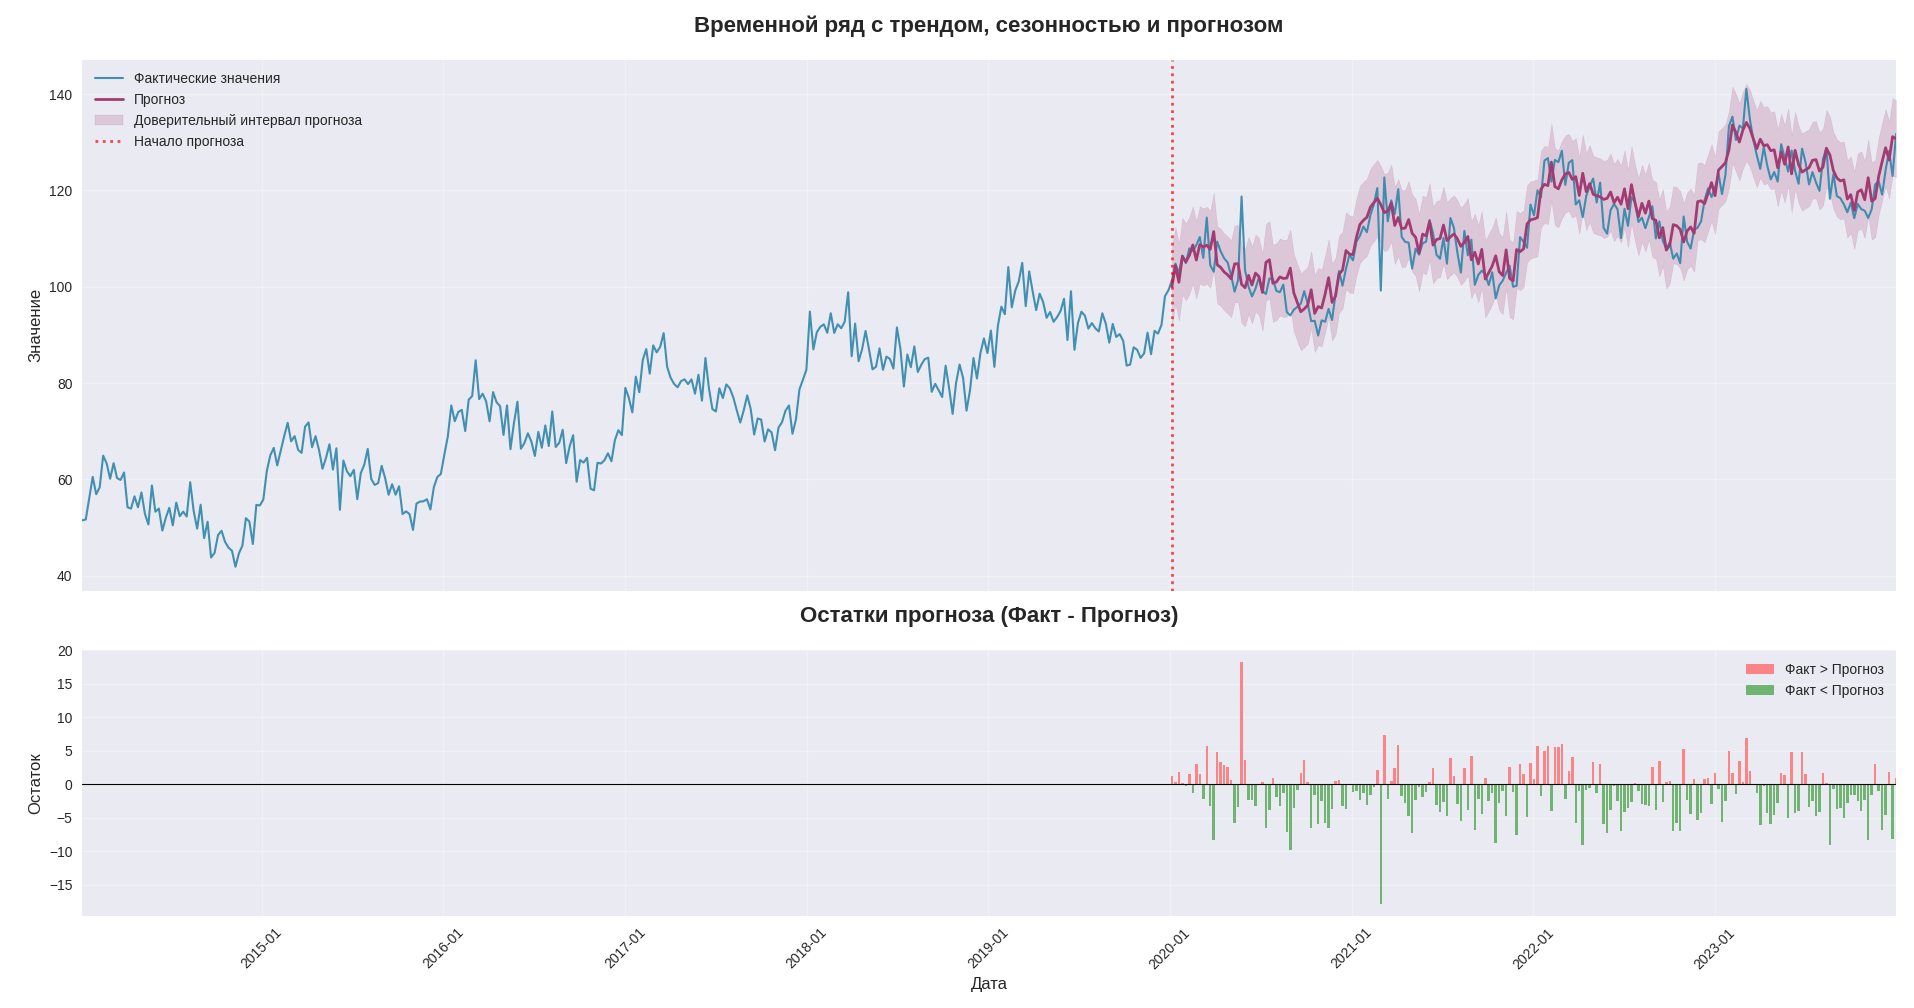
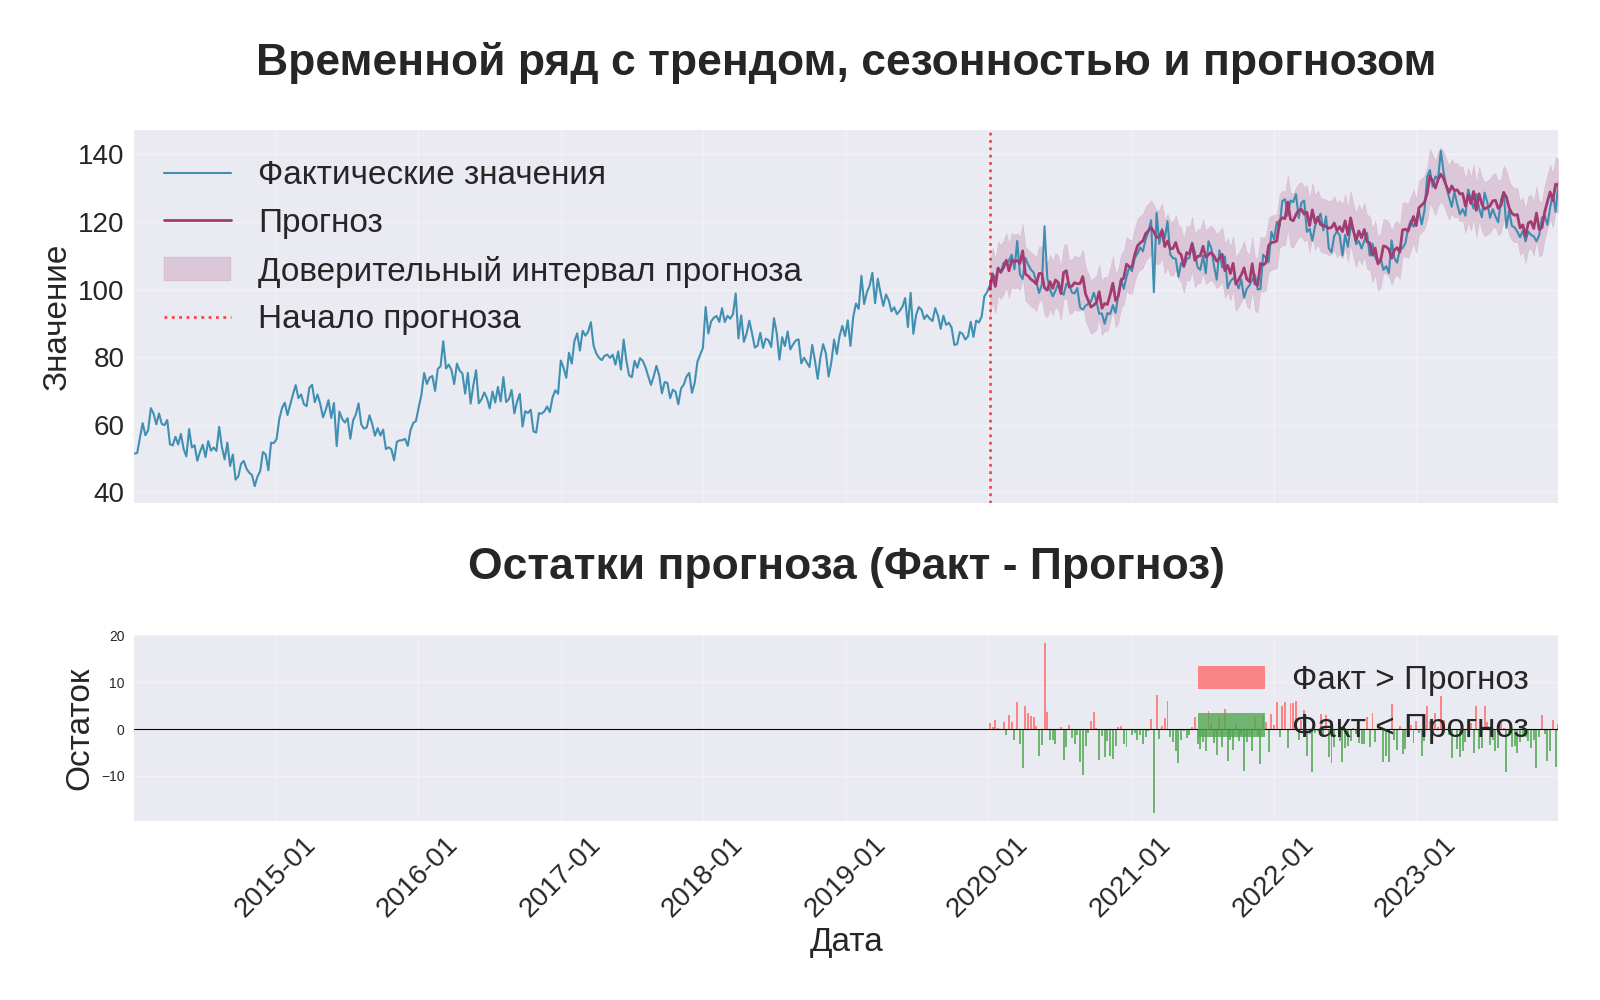
change a to y_hat in metrics section

diff --git a/src/0. Getting started/05_metrics.tex b/src/0. Getting started/05_metrics.tex
@@ -1,6 +1,8 @@
 \section{Метрики качества точечного прогноза}
 \label{sec:metrics}
 
+\subsection{Немного определений}
+
 В контексте всего вышесказанного определимся, как же количественно
 посчитать, насколько наш прогноз совпадает с фактом. Мы уже выяснили,
 что важны не только конкретные значения метрик, но и их стабильность
@@ -89,11 +91,14 @@ TODO: написать про свойства метрик качества. т
 симметричности, устойчивости к выбросам и тд и в конце привести
 сводную таблицу. Выделить классы эквивалентности
 
+\subsection{Самые распространенные метрики качества прогноза}
+
 Основная задача, с которой мы будем сталкиваться в данным курсе -
 задача регрессии. Способов посчитать близость двух чисел
 (прогноза и истинного ответа) достаточно много, и поэтому при
 обсуждении регрессии у нас возникнет большое количество функционалов ошибки.
-Напомним также, что в случае регрессии функционал и метрика качества
+Напомним также, что в случае регрессии (в частности, в прогнозе
+временных рядов) функционал и метрика качества
 зачастую оказывается одним и тем же: мы можем рассматривать
 среднеквадратичную ошибку как в качестве цели для оптимизации, так
 и в качестве оценки итогового качества модели. При этом не все
@@ -101,21 +106,21 @@ TODO: написать про свойства метрик качества. т
 
 Чтобы обучать регрессионные модели временного ряда, нужно
 определиться, как именно измеряется качество предсказаний. Будем
-обозначать через \( y \) значение целевой переменной, через \( a \) --
+обозначать через \( y \) значение целевой переменной, через \( \hat{y_t} \) --
 прогноз модели.
-Рассмотрим несколько способов оценить отклонение \( L(y, a) \)
+Рассмотрим несколько способов оценить отклонение \( L(y, \hat{y_t}) \)
 прогноза от истинного ответа.
 
 \subsection*{MSE и \( R^2 \)}
 Основной способ измерить отклонение — посчитать квадрат разности:
 
-\[ L(y, a) = (a - y)^2 \]
+\[ L = (\hat{y_t} - y)^2 \]
 
 Благодаря своей дифференцируемости эта функция наиболее часто
 используется в задачах регрессии. Основанный на ней функционал
 называется среднеквадратичным отклонением (mean squared error, MSE):
 
-\[ \text{MSE}(a, X) = \frac{1}{T} \sum_{t=1}^{T} (a_t - y_t)^2 \]
+\[ \text{MSE} = \frac{1}{T} \sum_{t=1}^{T} (\hat{y_t} - y_t)^2 \]
 
 Отметим, что величина среднеквадратичного отклонения плохо
 интерпретируется, поскольку не сохраняет единицы измерения — так,
@@ -124,7 +129,7 @@ TODO: написать про свойства метрик качества. т
 среднеквадратичной ошибки (root mean squared error, RMSE):
 
 \[
-  RMSE(a, X) = \sqrt{\frac{1}{T} \sum_{i=1}^{T} (a_t - y_t)^2}.
+  RMSE = \sqrt{\frac{1}{T} \sum_{i=1}^{T} (\hat{y_t} - y_t)^2}.
 \]
 
 Среднеквадратичная ошибка подходит для сравнения двух моделей или для
@@ -137,7 +142,7 @@ TODO: написать про свойства метрик качества. т
 детерминации (или коэффициент $R^2$):
 
 \[
-  R^2(a, X) = 1 - \frac{\sum_{t=1}^{T} (a(x_t) -
+  R^2 = 1 - \frac{\sum_{t=1}^{T} (\hat{y_t} -
   y_t)^2}{\sum_{i=t}^{T} (y_t - \bar{y})^2},
 \]
 
@@ -153,14 +158,14 @@ TODO: написать про свойства метрик качества. т
 Заменим квадрат отклонения на модуль:
 
 \[
-  L(y, a) = |a - y|
+  L = |\hat{y_t} - y|
 \]
 
 Соответствующий функционал называется средним абсолютным отклонением
 (mean absolute error, MAE):
 
 \[
-  MAE(a, X) = \frac{1}{T} \sum_{t=1}^{T} |a_t - y_t|.
+  MAE = \frac{1}{T} \sum_{t=1}^{T} |\hat{y_t} - y_t|.
 \]
 
 Модуль отклонения не является дифференцируемым, но при этом менее
@@ -186,7 +191,7 @@ TODO: написать про свойства метрик качества. т
 пример относительной функции потерь:
 
 \[
-  L(y, a) = \frac{|y - a|}{y}
+  L = \frac{|y_t - \hat{y_t}|}{y_t}
 \]
 
 Соответствующий функционал называется средней абсолютной процентной
@@ -199,8 +204,17 @@ TODO: написать про свойства метрик качества. т
 модификации (symmetric mean absolute percentage error, SMAPE):
 
 \[
-  L(y, a) = \frac{|y - a|}{(|y| + |a|)/2}
+  L = \frac{|y - \hat{y_t}|}{(|y| + |\hat{y_t}|)/2}
 \]
+
+TODO: квантильная функция
+
+\subsection{Для тех, кому все еще мало}
+
+Как уже было сказано ранее, метрик качеств для временных рядов можно
+придумать бесконечное количество. Ниже мы приведем менее
+распространенные метрики качества прогноза, а также дадим краткое
+объяснение, зачем они нужны.
 
 TODO: написать также про следующие метрики (взято у гевиссты, их
   дохуя, поэтому надо расписать, для чего вообще они нужны + возможно
@@ -213,8 +227,6 @@ TODO: написать также про следующие метрики (вз
   \item Cредняя абсолютная ошибка (mean absolute error, MAE)
   \item Медианная абсолютная ошибка (median absolute error, MdAE)
   \item Сравнение RMSE, MAE, MdAE
-  \item Корень из среднеквадратичной логарифмической ошибки
-    (root mean squared logarithmic error, RMSLE)
   \item Корень из среднеквадратичной логарифмической ошибки
     (root mean squared logarithmic error, RMSLE)
   \item Метрики качества на основе процентных ошибок

diff --git a/code_examples/forecast_errors.py b/code_examples/forecast_errors.py
@@ -31,10 +31,8 @@ forecast = (
     trend + seasonality * 0.85 + np.random.normal(1, 2, n) + 50
 )  # Прогноз с ошибкой
 
-
 # Разделение на обучающую и тестовую выборки
 split_point = int(n * 0.6)  # 60% для обучения, 40% для теста
-
 
 # Добавление выбросов
 actual[split_point + 20] += 20
@@ -88,26 +86,30 @@ ax1.axvline(
 
 ax1.set_title(
     "Временной ряд с трендом, сезонностью и прогнозом",
-    fontsize=16,
+    fontsize=32,  # Увеличено в 2 раза (было 16)
     fontweight="bold",
-    pad=20,
+    pad=40,  # Увеличено пропорционально
 )
-ax1.set_ylabel("Значение", fontsize=12)
-ax1.legend(loc="upper left")
+ax1.set_ylabel("Значение", fontsize=24)  # Увеличено в 2 раза (было 12)
+ax1.legend(loc="upper left", fontsize=24)  # Увеличена легенда
 ax1.grid(True, alpha=0.3)
+
+# Увеличение размера меток на осях
+ax1.tick_params(axis="both", which="major", labelsize=20)
 
 # Второй график - барчарт остатков (ТОЛЬКО для периода прогноза)
 colors = ["#FF6B6B" if res > 0 else "#51A851" for res in residuals[split_point:]]
-bars = ax2.bar(
-    test_dates, residuals[split_point:], color=colors, alpha=0.8, width=5
-)  # Уменьшил ширину для недельных данных
+bars = ax2.bar(test_dates, residuals[split_point:], color=colors, alpha=0.8, width=5)
 
 ax2.axhline(y=0, color="black", linewidth=0.8, linestyle="-")
 ax2.set_title(
-    "Остатки прогноза (Факт - Прогноз)", fontsize=16, fontweight="bold", pad=20
+    "Остатки прогноза (Факт - Прогноз)",
+    fontsize=32,  # Увеличено в 2 раза
+    fontweight="bold",
+    pad=40,
 )
-ax2.set_xlabel("Дата", fontsize=12)
-ax2.set_ylabel("Остаток", fontsize=12)
+ax2.set_xlabel("Дата", fontsize=24)  # Увеличено
+ax2.set_ylabel("Остаток", fontsize=24)  # Увеличено
 ax2.grid(True, alpha=0.3)
 
 # Создание кастомной легенды для остатков
@@ -115,10 +117,10 @@ legend_elements = [
     Patch(facecolor="#FF6B6B", label="Факт > Прогноз", alpha=0.8),
     Patch(facecolor="#51A851", label="Факт < Прогноз", alpha=0.8),
 ]
-ax2.legend(handles=legend_elements, loc="upper right")
+ax2.legend(handles=legend_elements, loc="upper right", fontsize=24)  # Увеличена
 
 # Форматирование оси X
-ax2.tick_params(axis="x", rotation=45)
+ax2.tick_params(axis="x", rotation=45, labelsize=20)  # Увеличены метки дат
 ax2.xaxis.set_major_formatter(plt.matplotlib.dates.DateFormatter("%Y-%m"))
 
 # Установка пределов по оси X
@@ -127,5 +129,5 @@ x_max = dates[-1]
 ax1.set_xlim(x_min, x_max)
 ax2.set_xlim(x_min, x_max)
 
-plt.tight_layout()
+plt.tight_layout(pad=3.0)  # Увеличен отступ для больших шрифтов
 plt.show()
